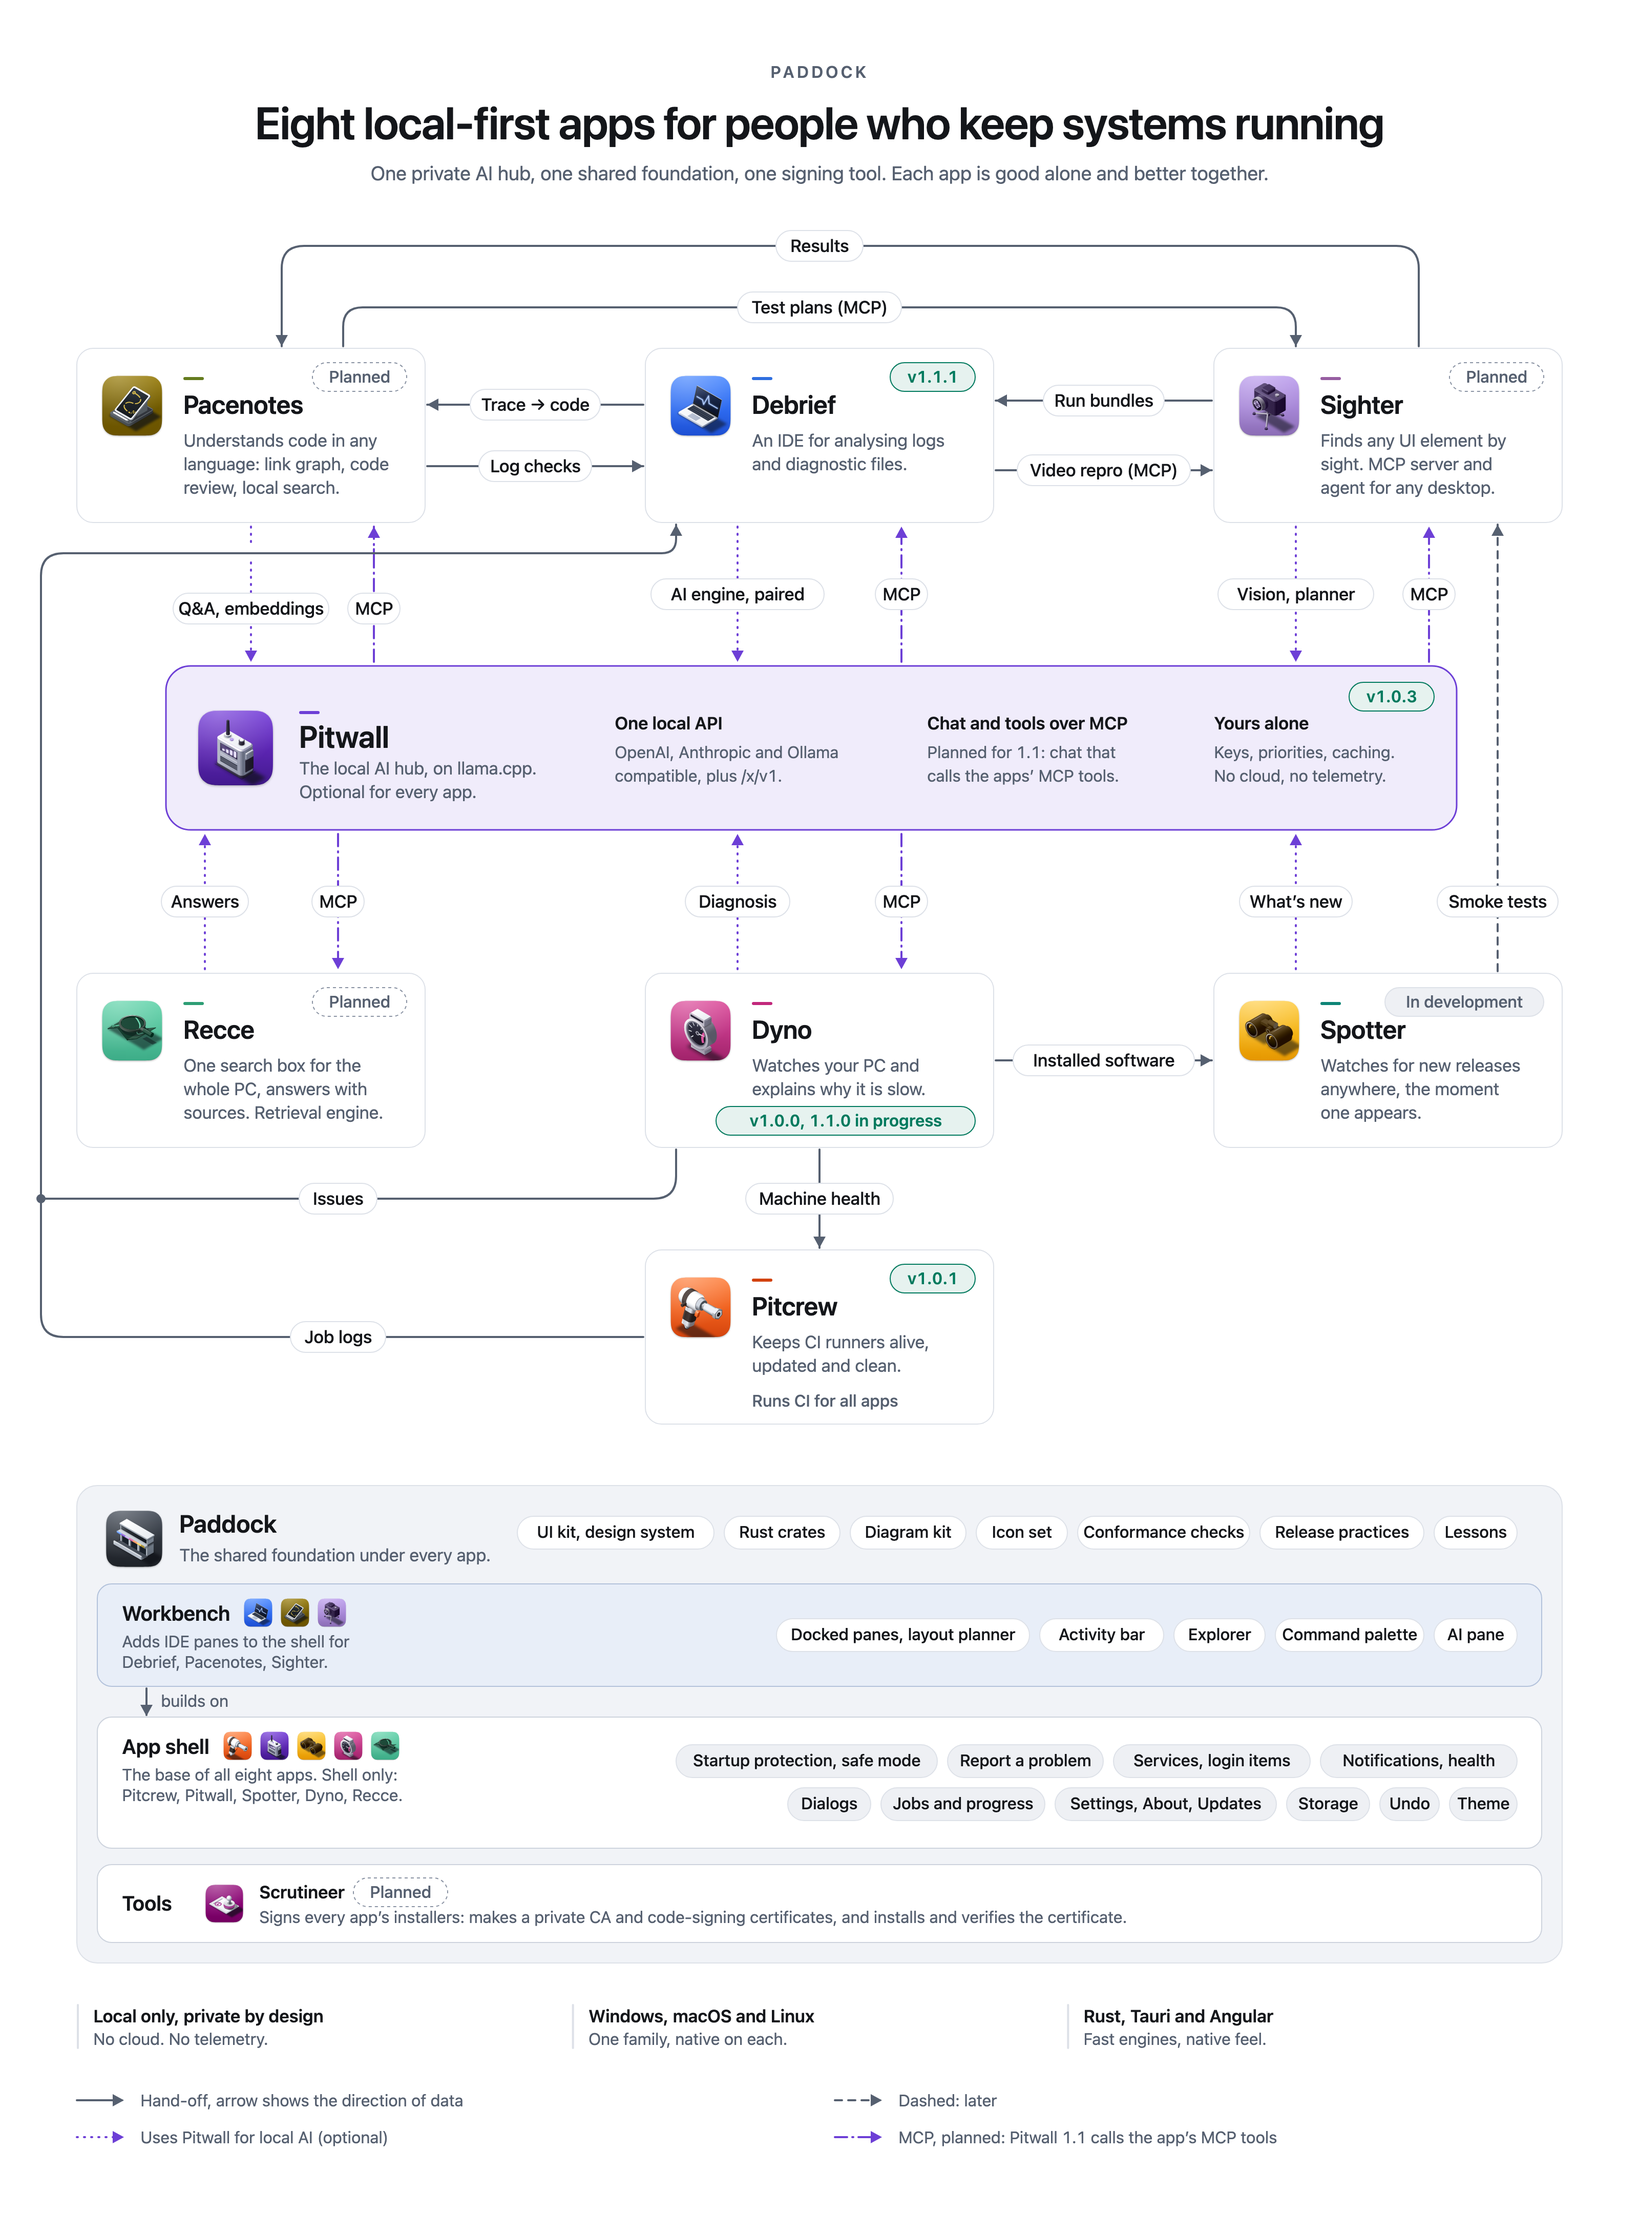
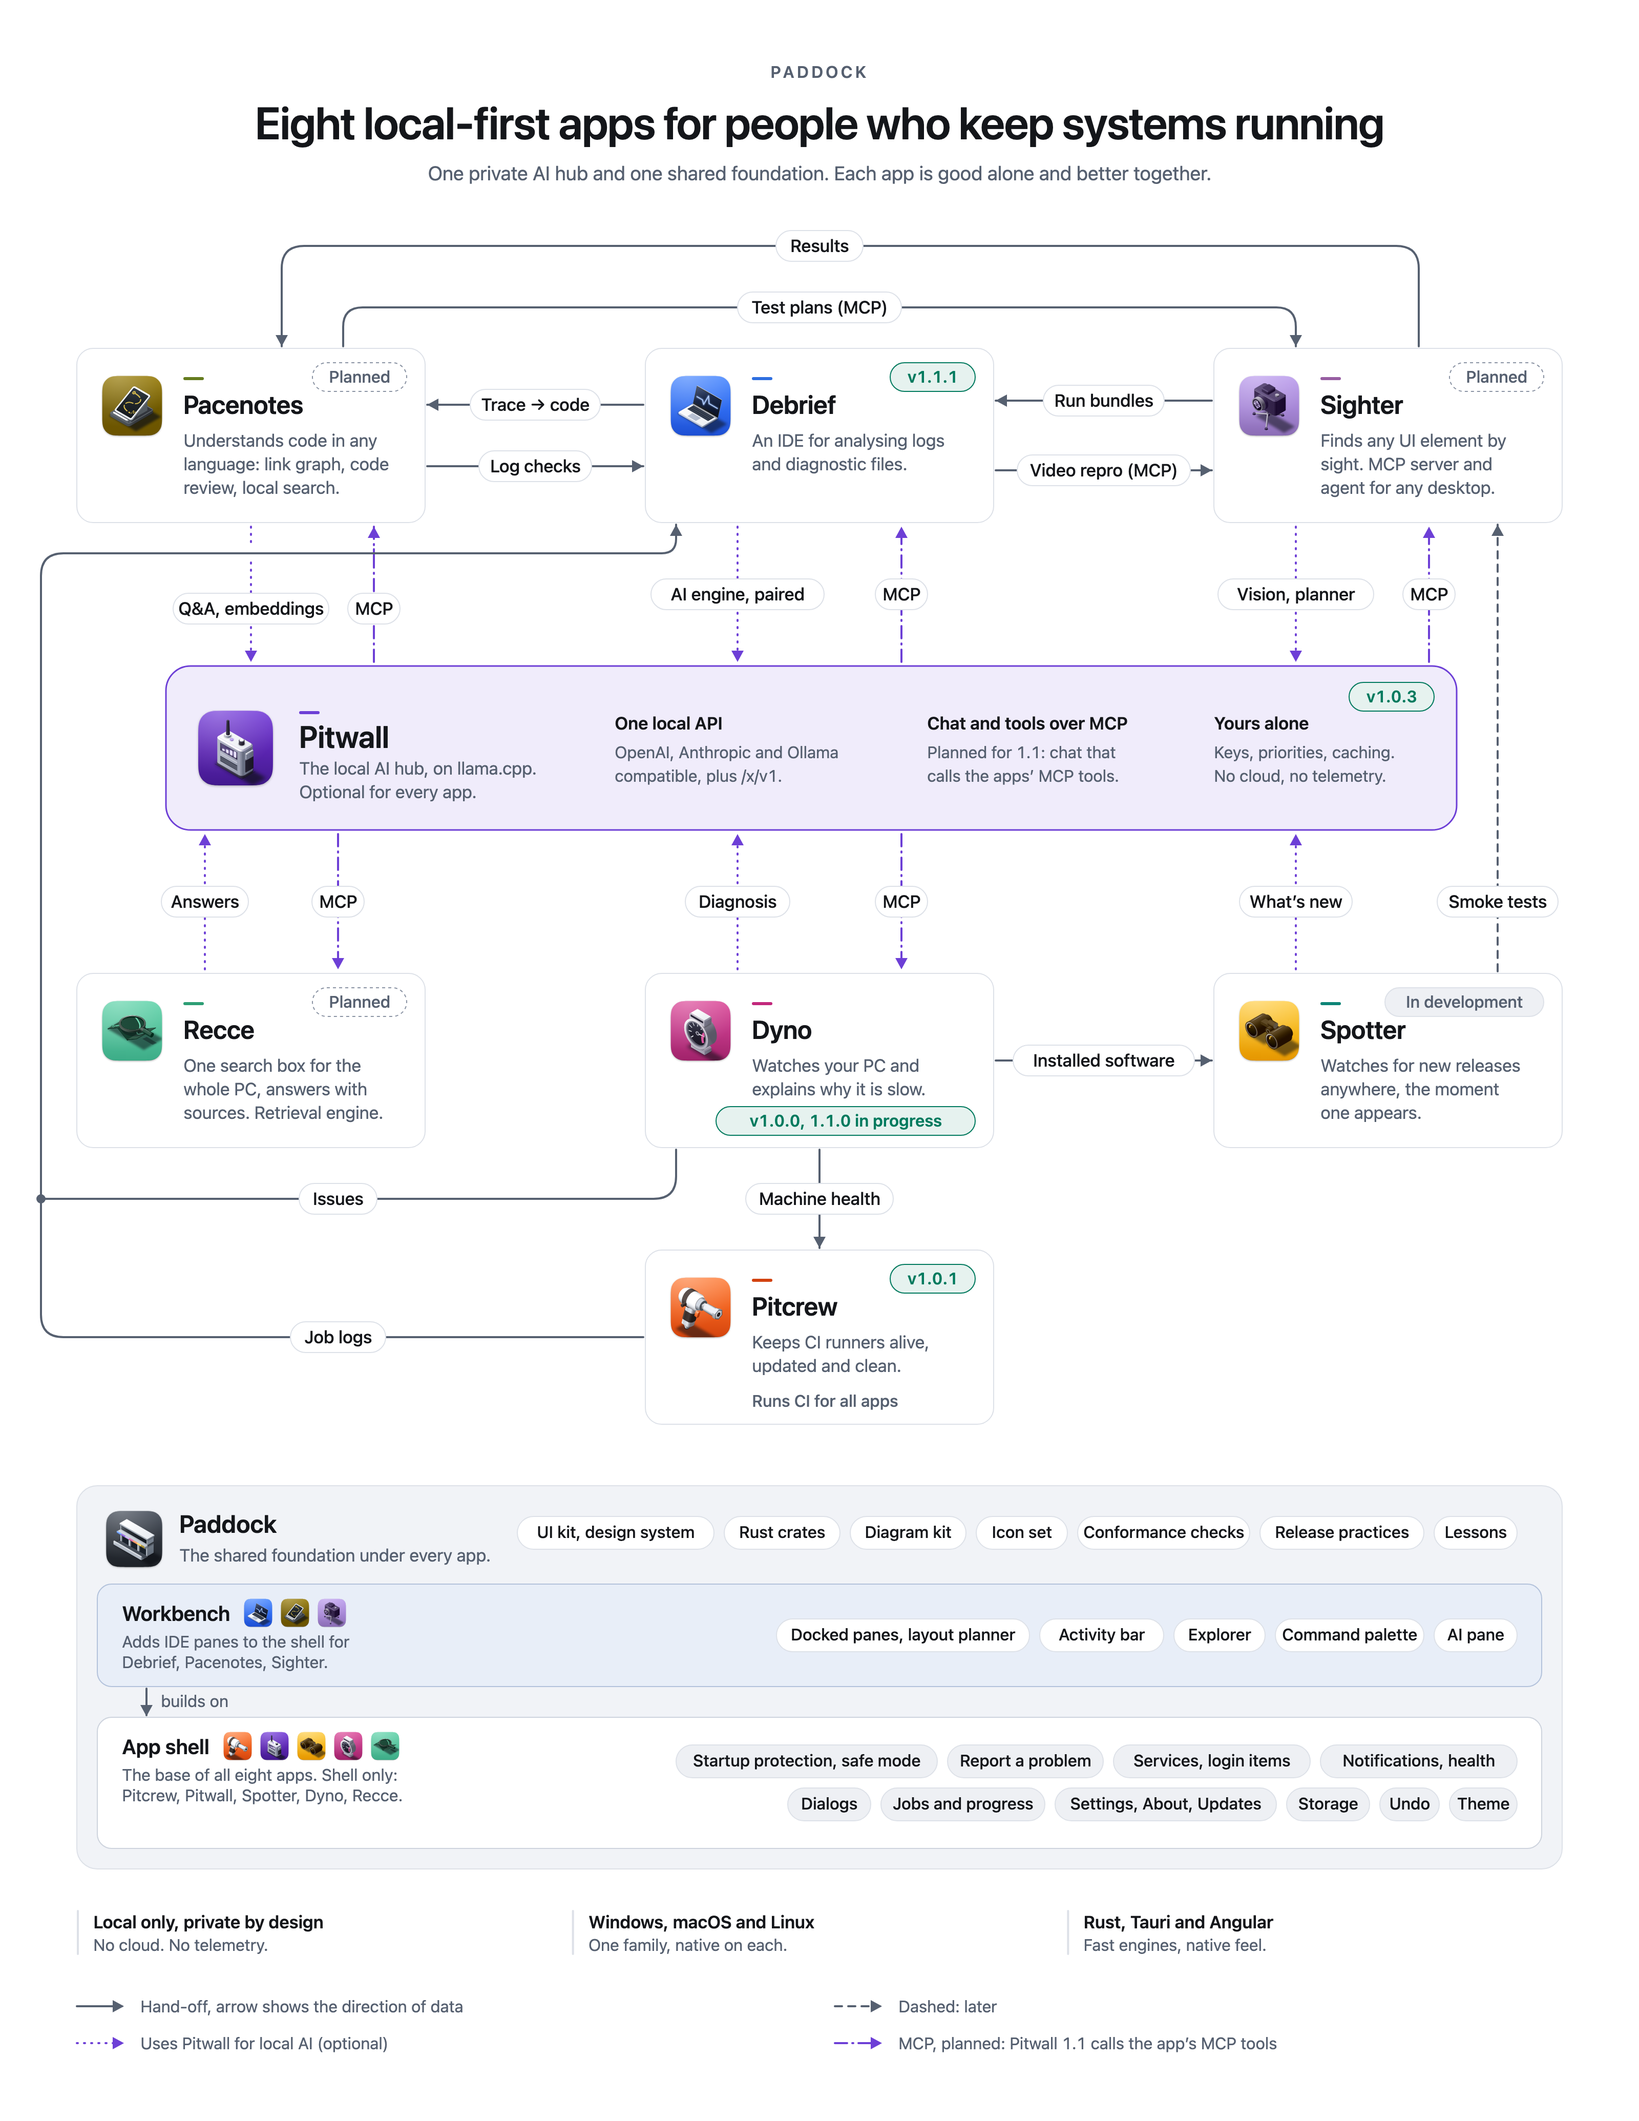
docs: remove the dropped Scrutineer from the ecosystem image and family docs

diff --git a/docs/ecosystem.md b/docs/ecosystem.md
@@ -1,7 +1,7 @@
 # The Paddock ecosystem
 
 <picture>
-  <img src="images/paddock-ecosystem.svg?v=7532e4df" alt="Paddock: eight apps and a tool. Pacenotes, Debrief and Sighter above Pitwall, the local AI hub; Recce, Dyno and Spotter below it; Pitcrew under Dyno. Dash-dot lines marked MCP show what is planned for Pitwall 1.1: it calls the MCP servers of Pacenotes, Debrief, Sighter, Dyno and Recce, the family's retrieval engine. All are built on the shared Paddock foundation: the app shell every app uses and the workbench for the IDE-style apps; the planned tool Scrutineer signs every app's installers" width="100%">
+  <img src="images/paddock-ecosystem.svg?v=14fc4133" alt="Paddock: eight apps. Pacenotes, Debrief and Sighter above Pitwall, the local AI hub; Recce, Dyno and Spotter below it; Pitcrew under Dyno. Dash-dot lines marked MCP show what is planned for Pitwall 1.1: it calls the MCP servers of Pacenotes, Debrief, Sighter, Dyno and Recce, the family's retrieval engine. All are built on the shared Paddock foundation: the app shell every app uses and the workbench for the IDE-style apps" width="100%">
 </picture>
 
 Eight desktop apps and one tool for people who keep systems running, built on one shared foundation. Each is useful alone and better with
@@ -16,7 +16,7 @@ Sighter: docked panes with the layout planner, the activity bar, the Explorer, t
 
 Images are generated ([`images/src/ecosystem.mjs`](images/src/ecosystem.mjs),
 [`images/src/integrations.mjs`](images/src/integrations.mjs)). PNG exports for places that cannot render SVG:
-hero [light](images/paddock-ecosystem-light.png?v=9985d2ed) and [dark](images/paddock-ecosystem-dark.png?v=a2ccc68d), integrations
+hero [light](images/paddock-ecosystem-light.png?v=d79c0ef6) and [dark](images/paddock-ecosystem-dark.png?v=46a96a3f), integrations
 [light](images/paddock-integrations-light.png?v=a9a7c6fa) and [dark](images/paddock-integrations-dark.png?v=38cb6fd5), hand-offs
 [light](images/paddock-handoffs-light.png?v=e754dcb5) and [dark](images/paddock-handoffs-dark.png?v=ce5abde7). PNGs are
 rendered with Playwright's pinned Chrome for Testing, never the installed Google Chrome ([`images/src/chrome.mjs`](images/src/chrome.mjs); set
@@ -47,7 +47,6 @@ the profile README when `PADDOCK_PROFILE` points at its checkout. It is idempote
 | Sighter | Planned |
 | Pacenotes (understands code in any language) | Planned |
 | Recce (searches the whole PC) | Planned (placeholder page, draft plan) |
-| Scrutineer (tool: code-signing certificates) | Planned (placeholder page, draft plan) |
 
 ## The apps
 
@@ -142,13 +141,6 @@ Status: **planned**. Repo: <https://dev.decryptology.net/decryp7/paddock/src/bra
 
 Status: **planned**, last in the order of 2026-11-04, after Dyno 1.1.0, Spotter 1.0, Pitwall 1.1, Pitcrew 1.1, Debrief 1.2, Pacenotes and Sighter. Page (a placeholder): [docs/planned/recce](planned/recce/README.md); the draft plan is on the branch `docs/pc-search-app-plan`.
 
-### Scrutineer (a planned tool)
-**Purpose.** Generates, signs, verifies and installs code-signing certificates. Scrutineering is the technical inspection that certifies a car before it may race.
-It serves every app: it makes a private CA and code-signing certificates, signs each app's installers, and installs and
-verifies the certificate. The hero shows it under the foundation's Tools, not as an app.
-
-Status: **planned**; a draft plan is on the branch `docs/code-signing-plan`; Pitwall 1.1 is planned as the first release signed through it. Page (a placeholder): [tools/scrutineer](../tools/scrutineer/README.md).
-
 ## Integration architecture
 
 <picture>
@@ -174,7 +166,6 @@ The apps never depend on each other to do their own job. They meet in a few well
 | **Newer version** | Spotter to Pacenotes | Spotter tells Pacenotes when a newer version of a dependency is available. |
 | **Smoke tests** (later) | Spotter to Sighter | A new release found by Spotter triggers a Sighter smoke test. |
 | **CI** | Pitcrew to every repo | Pitcrew keeps the runners that build and test all of these apps alive, updated and clean. |
-| **Code signing** (planned) | Scrutineer to every app | Scrutineer makes a private CA and code-signing certificates, signs every app's installers, and installs and verifies the certificate; Pitwall 1.1 is planned as the first release signed through it. |
 | **Plugin platform** (planned) | Debrief, Pacenotes, later Dyno's tier-3 plugins | Debrief's plugin host, IPC and API (the ADR 0017 model) extracted into shared crates: out-of-process, Rust-only plugins. |
 | **`paddock-pitwall`** | shared crate in each app | One client for discovery, pairing, keychain keys, retries, priorities, cache headers and capability checks, so no app re-implements Pitwall access. Built (extracted from Debrief 1.1's client); Debrief, Pacenotes and Sighter use it, Spotter and Dyno later. |
 

diff --git a/README.md b/README.md
@@ -3,7 +3,7 @@
 <h1 align="center">Paddock</h1>
 
 <p align="center">
-  <a href="docs/ecosystem.md"><img src="docs/images/paddock-ecosystem.svg?v=7532e4df" alt="Paddock: eight apps and a tool. Pacenotes, Debrief and Sighter above Pitwall, the local AI hub; Recce, Dyno and Spotter below it; Pitcrew under Dyno. Dash-dot lines marked MCP show what is planned for Pitwall 1.1: it calls the MCP servers of Pacenotes, Debrief, Sighter, Dyno and Recce, the family's retrieval engine. All are built on the shared Paddock foundation: the app shell every app uses and the workbench for the IDE-style apps; the planned tool Scrutineer signs every app's installers" width="100%"></a>
+  <a href="docs/ecosystem.md"><img src="docs/images/paddock-ecosystem.svg?v=14fc4133" alt="Paddock: eight apps. Pacenotes, Debrief and Sighter above Pitwall, the local AI hub; Recce, Dyno and Spotter below it; Pitcrew under Dyno. Dash-dot lines marked MCP show what is planned for Pitwall 1.1: it calls the MCP servers of Pacenotes, Debrief, Sighter, Dyno and Recce, the family's retrieval engine. All are built on the shared Paddock foundation: the app shell every app uses and the workbench for the IDE-style apps" width="100%"></a>
 </p>
 
 <p align="center"><a href="docs/ecosystem.md">The ecosystem</a> · <a href="docs/ecosystem.md#integration-architecture">Integrations</a> · <a href="ui/README.md">UI kit</a> · <a href="docs/design-guide.md">Design guide</a> · <a href="icons/README.md">Icons</a></p>
@@ -16,7 +16,7 @@ anywhere.
 
 ## The apps
 
-Seven of the eight apps live in this repository under [`apps/`](apps/); Recce, the eighth, is planned and has only a placeholder page so far (plan: branch `docs/pc-search-app-plan`). Scrutineer, a tool rather than an app, is listed in the same table. The old per-app repositories are archived (read-only); their past releases stay downloadable there.
+Seven of the eight apps live in this repository under [`apps/`](apps/); Recce, the eighth, is planned and has only a placeholder page so far (plan: branch `docs/pc-search-app-plan`). The old per-app repositories are archived (read-only); their past releases stay downloadable there.
 
 | App&nbsp;&nbsp;&nbsp;&nbsp;&nbsp;&nbsp;&nbsp;&nbsp;&nbsp;&nbsp;&nbsp;&nbsp;&nbsp;&nbsp;&nbsp;&nbsp;&nbsp;&nbsp;&nbsp;&nbsp;&nbsp;&nbsp;&nbsp;&nbsp;&nbsp;&nbsp;&nbsp;&nbsp; | What it does | Status |
 |---|---|---|
@@ -28,7 +28,6 @@ Seven of the eight apps live in this repository under [`apps/`](apps/); Recce, t
 | <img src="icons/sighter/small/sighter-48.svg?v=232dd5be" width="40" height="40" align="absmiddle" alt=""> **[Sighter](apps/sighter/README.md)** | Finds any UI element by sight, so UI tests work even without an accessibility tree. | Planned |
 | <img src="icons/pacenotes/small/pacenotes-48.svg?v=38a41979" width="40" height="40" align="absmiddle" alt=""> **[Pacenotes](apps/pacenotes/README.md)** | Understands code in any language: dependency graph, code review with your own rules, local semantic search, and an MCP server. | Planned |
 | <img src="docs/images/src/icons/recce-placeholder.svg?v=927fe524" width="40" height="40" align="absmiddle" alt=""> **[Recce](docs/planned/recce/README.md)** | One search box for the whole PC: files, documents, email and SharePoint, by name or by meaning, with answers that cite their sources. | Planned (placeholder page, draft plan) |
-| <img src="docs/images/src/icons/scrutineer-placeholder.svg?v=0009a2de" width="40" height="40" align="absmiddle" alt=""> **[Scrutineer](tools/scrutineer/README.md)** | A tool, not an app: generates, signs, verifies and installs your own code-signing certificates, so your apps show you as the publisher. Pitwall 1.1 is planned as the first release signed through it. | Planned (placeholder page, draft plan) |
 
 Per-app detail, audience and standout features: [docs/ecosystem.md](docs/ecosystem.md).
 
@@ -132,7 +131,7 @@ The order of work (2026-11-04):
 
 1. Dyno 1.1.0, in progress: the administrator helper's readings, per-machine Windows installs and OS lifecycle checks.
 2. Spotter 1.0.
-3. Pitwall 1.1, the first release signed through Scrutineer (draft plan).
+3. Pitwall 1.1.
 4. Pitcrew 1.1.
 5. Debrief 1.2.
 6. Pacenotes and Sighter.

diff --git a/icons/README.md b/icons/README.md
@@ -28,7 +28,7 @@ concept) is kept for reference in `archive/2026-10-flat/`; the sections below on
 | Sighter | Approved (2026-10-23) |
 | Pacenotes | Approved (2026-10-23) |
 | Paddock (umbrella mark) | Reviewed (2026-10-24) |
-| Recce (planned app), Scrutineer (planned tool) | Placeholders (2026-11-04); the real icons come later; see below |
+| Recce (planned app), Scrutineer (tool, dropped 2026-11-05) | Placeholders (2026-11-04); the real icons come later; see below |
 | Paddock Shell Demo (a demo app, not a family member) | New (2026-10-24), awaiting independent review |
 | Paddock Workbench Demo (a demo app, not a family member) | New (2026-10-25), awaiting independent review (rule 22); a near-black tile (`#050505`) with its own silhouette (activity-bar dots, a split dock with tabs on the top pane), white ink; family CVD minimums unchanged (review 3 P2-6) |
 
@@ -44,7 +44,7 @@ sheet `alternative/placeholder-family-sheet.png` (the family row at 128 and 60, 
 - **Recce** (planned app, PC-wide search): a magnifier on a folded stage map, dark ink on a light jade tile `#53C09A` (ink
   `#002D1E`, 6.7:1), the route in jade. The tile is the best of an OKLCH grid search, but deutan is 13.1 against Pitcrew (family
   minimum 13.6); no colour keeps all four.
-- **Scrutineer** (planned tool, code-signing certificates): an inspection stamp on a certificate with its tick mark, white on a
+- **Scrutineer** (tool for code-signing certificates, dropped 2026-11-05): an inspection stamp on a certificate with its tick mark, white on a
   deep berry tile `#840070` (9.5:1). With Recce added, the best tile of the same search is well under the family minimums (normal
   14.4 against Pitwall, protan 10.4 against Paddock, deutan 11.8 against Pitwall, tritan 12.0 against Pacenotes): a real icon
   needs a tile decision.

diff --git a/tools/README.md b/tools/README.md
@@ -19,7 +19,7 @@ Parameters carry what differed between the copies: the product name, the launchd
 program, the data folder and socket name (defaults follow `paddock-env`), the launch-agent minimum macOS. What the verify
 scripts read (unit, launchd state, discovery file) is what `paddock-service` (X4) registers; pass its names.
 
-Planned tool: [Scrutineer](scrutineer/README.md), code-signing certificates (a placeholder page; no code yet; draft plan on the branch `docs/code-signing-plan`; Pitwall 1.1 is planned as the first release signed through it).
+Dropped tool: [Scrutineer](scrutineer/README.md), code-signing certificates, was dropped on 2026-11-05; the apps stay unsigned. Its placeholder page is kept as a record.
 
 Tests: `node --test tools/test/*.test.mjs`. They run every script in a scratch folder with a PATH of shims
 (`PADDOCK_TOOLS_OS` pretends to be macOS or Linux), so no launchd, systemd, Docker or installed app is touched. The PowerShell

diff --git a/tools/scrutineer/README.md b/tools/scrutineer/README.md
@@ -4,6 +4,8 @@
 
 # Scrutineer
 
+**Dropped on 2026-11-05: the apps stay unsigned. This page is kept as a record.**
+
 **A tool for code-signing certificates: generate, sign, verify and install them in one place.**
 
 In motorsport, scrutineering is the technical inspection that certifies a car before it may race. Scrutineer does that
